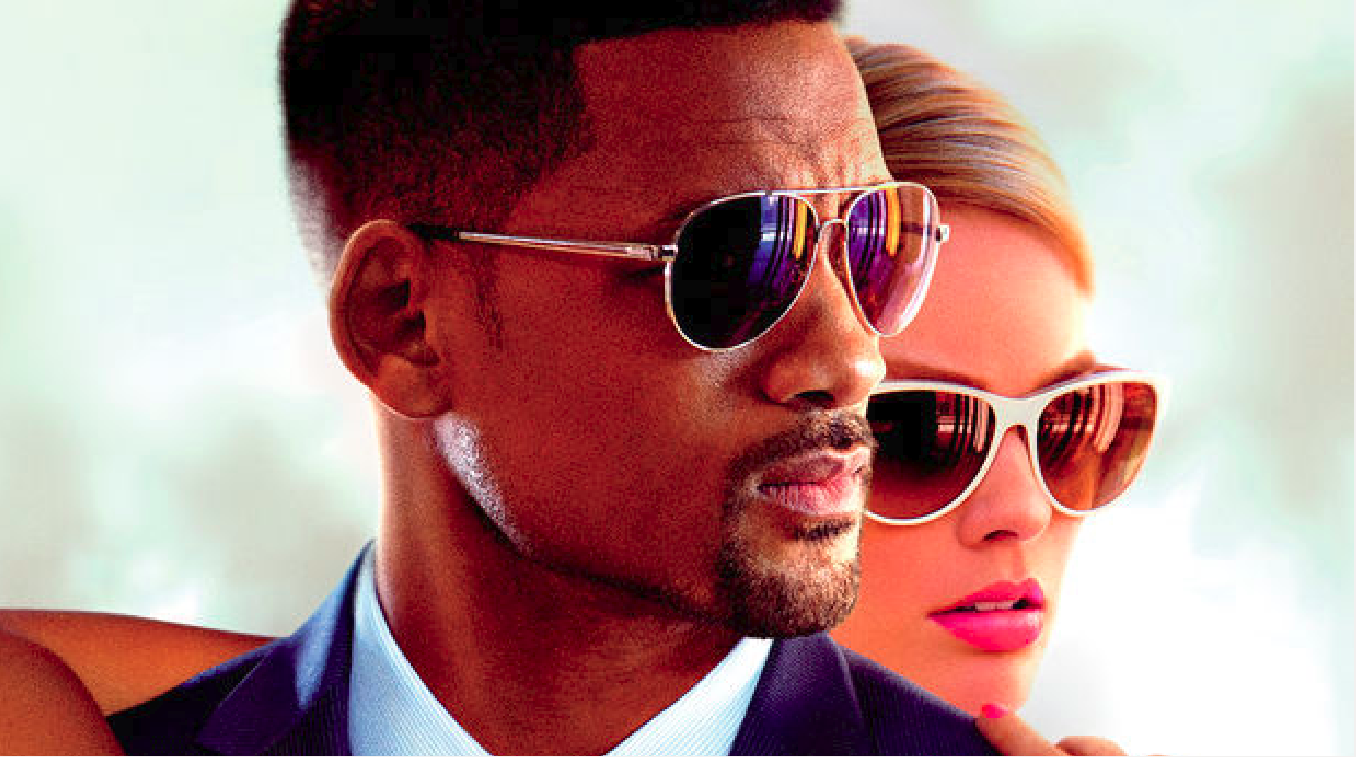
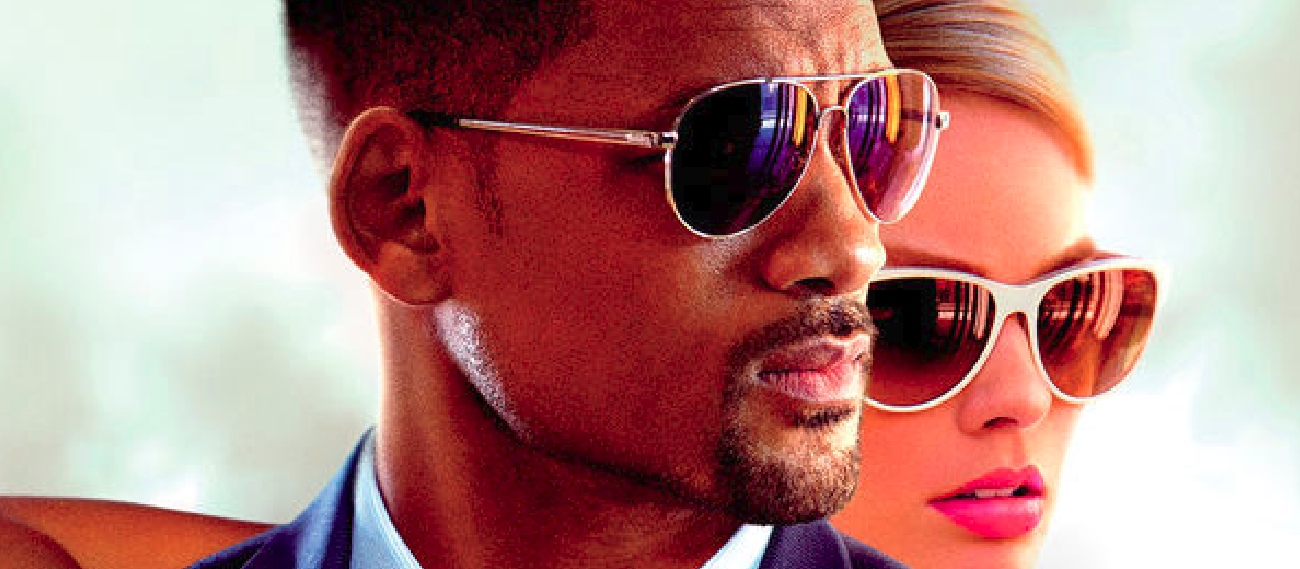
carousel images resized

diff --git a/index.html b/index.html
@@ -18,6 +18,8 @@
   <link href="https://fonts.googleapis.com/css?family=Open+Sans+Condensed:300" rel="stylesheet">
   <link href="https://fonts.googleapis.com/css?family=Roboto:700,900" rel="stylesheet">
 
+
+
 </head>
 
 <body>
@@ -31,15 +33,26 @@
         <div class="col-lg-4 col-md-4 col-sm-12 col-12 menutitrecine">
           HOME
           <div class="dropdown">
-            <button class="btn btn-secondary dropdown-toggle" type="button" id="dropdownMenuButton" data-toggle="dropdown" aria-haspopup="true" aria-expanded="false">
-                GENRE
+              <button class="btn btn-secondary dropdown-toggle" type="button" id="dropdownMenuButton" data-toggle="dropdown" aria-haspopup="true" aria-expanded="false">
+                  GENRE
               </button>
             <div class="dropdown-menu" aria-labelledby="dropdownMenuButton">
               <a class="dropdown-item" href="#">Action</a>
               <a class="dropdown-item" href="#">Comedy</a>
               <a class="dropdown-item" href="#">Western</a>
               <a class="dropdown-item" href="#">Fiction</a>
+              <a class="dropdown-item" href="#">Policier</a>
             </div>
+          </div>
+          <div class="dropdown">
+              <button class="btn btn-secondary dropdown-toggle" type="button"  data-toggle="dropdown" aria-haspopup="true" aria-expanded="false">
+                  GENRE
+              </button>
+          </div>
+          <div class="dropdown">
+              <button class="btn btn-secondary dropdown-toggle" type="button" data-toggle="dropdown" aria-haspopup="true" aria-expanded="false">
+                  GENRE
+              </button>
           </div>
         </div>
         <!-- </div> -->
@@ -1484,7 +1497,7 @@
                                 <div class="carousel-inner" role="listbox">
                                   <div class="carousel-item active">
                                     <div class="card d-block w-100">
-                                      <img class="card-img-top" src="assets/img/1st/4.jpg" alt="Card image cap">
+                                      <img class="card-img-top" id="django" src="assets/img/1st/4.jpg" alt="Card image cap">
                                       <div class="card-block">
                                         <h6 class="card-title">Django</h6>
                                       </div>
@@ -1748,29 +1761,26 @@
                           </div>
                     </div>
             <!-- place pour un trailer- short movie -->
-                          <div class="col-lg-4 col-md-4 col-sm-12 col-12">
-                            <div class="card" style="width: 18rem;">
-                              <iframe width="560" height="315" src="https://www.youtube.com/embed/eUdM9vrCbow" frameborder="0" allow="autoplay; encrypted-media" allowfullscreen></iframe>
-                              <div class="card-body" style="background-color:black; width:560px; height:250px">
-                                <div style="background-color: black; color:#B2322F;"> </div>
-                                 <div>
-                                      <div>
+                          <div class="card" style="width: 18rem;">
+                             <!-- <iframe id="myVideo" width="520" height="315" src="https://www.youtube.com/embed/eUdM9vrCbow" frameborder="0" allow="autoplay; encrypted-media" allowfullscreen></iframe> -->
+                             <div id="player"></div>
 
-                                      </div>
-                                      <div>
-                                        Story line:
-                                        Director:
-                                        Price:
-                                      </div>
-                                      <div>With the help of his mentor, a slave-turned-bounty hunter sets out to rescue his wife from a brutal Mississippi plantation owner. <br />
-                                      Quentin Tarantino <br />
-                                      15 Euro
-                                     </div>
+                             <div class="card-body" style="background-color:black; width:520px; height:280px; font-size:14px; padding-left: 20px;">
+                               <h5 style="color:#C03231; padding-bottom: 50px; padding-top:15px;" >DJANGO</h5>
 
-                                  </div>
-                              </div>
+                             <div style="display:flex; flex-direction:row;">
+                               <div style="color:#BE3230;"> Story line  </div>
+                               <div style="margin-left:9px;">:With the help of his mentor, a slave-turned-bounty hunter sets <br /> out to rescue his wife from a brutal Mississippi plantation owner.</div>
+                             </div>
+                             <div style="display:flex; flex-direction:row;">
+                               <div style="color:#BE3230;"> Director  </div>
+                               <div style="margin-left:18px;">:Quentin Tarantino</div>
+                             </div>
+                             <div style="display:flex; flex-direction:row;">
+                               <div style="color:#BE3230;"> Price  </div>
+                               <div style="margin-left:34px;">:15 Euro</div>
+                             </div>
                            </div>
-
                           </div>
                       </div>
 
@@ -2061,6 +2071,52 @@ Conditions générales d'utilisation
       // $(".topmoviescaroussel").hasClass("policiers");
       $(".policiers").addClass("invisible");
     });
+
+
+// MOVIE SHOP
+        // 2. This code loads the IFrame Player API code asynchronously.
+        var tag = document.createElement('script');
+
+        tag.src = "https://www.youtube.com/iframe_api";
+        var firstScriptTag = document.getElementsByTagName('script')[0];
+        firstScriptTag.parentNode.insertBefore(tag, firstScriptTag);
+
+        // 3. This function creates an <iframe> (and YouTube player)
+        //    after the API code downloads.
+        var player;
+
+        function onYouTubeIframeAPIReady() {
+          player = new YT.Player('player', {
+            height: '360',
+            width: '520',
+            videoId: 'mHzQis2fO0U',
+            events: {
+                'onClick': onPlayerReady,
+                'onStateChange': onPlayerStateChange
+            }
+          });
+        }
+
+        // 4. The API will call this function when the video player is ready.
+        function onPlayerReady(event) {
+          event.target.playVideo();
+        }
+
+        // 5. The API calls this function when the player's state changes.
+        //    The function indicates that when playing a video (state=1),
+        //    the player should play for six seconds and then stop.
+          var done = false;
+          function onPlayerStateChange(event) {
+            if (event.data == YT.PlayerState.PLAYING && !done) {
+              setTimeout(stopVideo, 6000);
+              done = true;
+            }
+          }
+        // function stopVideo() {
+        //   player.stopVideo();
+        // }
+
+
   </script>
   <script src="https://cdnjs.cloudflare.com/ajax/libs/tether/1.4.0/js/tether.min.js" integrity="sha384-DztdAPBWPRXSA/3eYEEUWrWCy7G5KFbe8fFjk5JAIxUYHKkDx6Qin1DkWx51bBrb" crossorigin="anonymous"></script>
   <script src="https://maxcdn.bootstrapcdn.com/bootstrap/4.0.0-alpha.6/js/bootstrap.min.js" integrity="sha384-vBWWzlZJ8ea9aCX4pEW3rVHjgjt7zpkNpZk+02D9phzyeVkE+jo0ieGizqPLForn" crossorigin="anonymous"></script>

diff --git a/assets/css/file.css b/assets/css/file.css
@@ -6,6 +6,45 @@ h2 {
   border-left: 5px solid #FE423E;
   padding: 10px; }
 
+  /*DEBUT DROP DOWN MENU*/
+.dropdown{
+  margin-left: 3%;
+}
+
+.btn {
+  border-radius: 0;
+    font-size: 12px;
+}
+
+.btn:hover {
+  background-color: #FD4340;
+}
+
+.btn:focus{
+  background-color: #FD4340;
+}
+
+.dropdown-menu{
+    margin:0;
+}
+
+.dropdown-item {
+  font-size: 12px;
+}
+
+.dropdown-item:hover {
+background-color: #FD4340;
+  font-size: 16px;
+}
+
+/*FIN DROP DOWN MENU*/
+
+/*CONTACT en CAROUSEL*/
+
+.contacttitrecine{
+  font-size:14px;
+}
+
 .principaltitrecine {
   display: flex;
   flex-direction: row;
